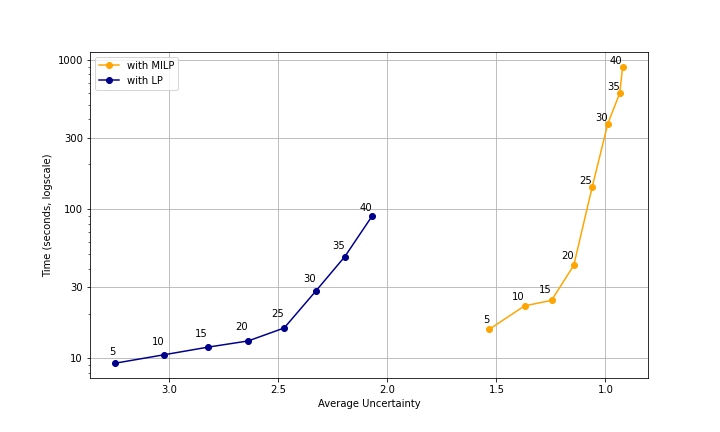
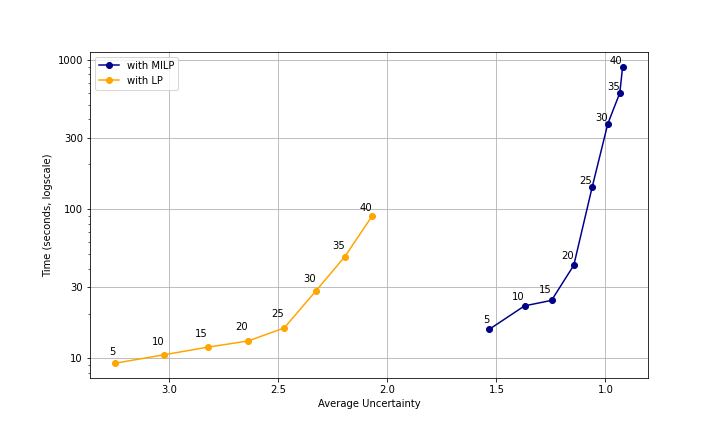
update colors

diff --git a/ICLR25/Paper_noProof.tex b/ICLR25/Paper_noProof.tex
@@ -261,7 +261,7 @@ The source code of Hybrid MILP will be provided on GitHub after acceptance (need
 
 \appendix
 
-\input{proofs}
+\input{proofsb}
 
 \end{document}
 
